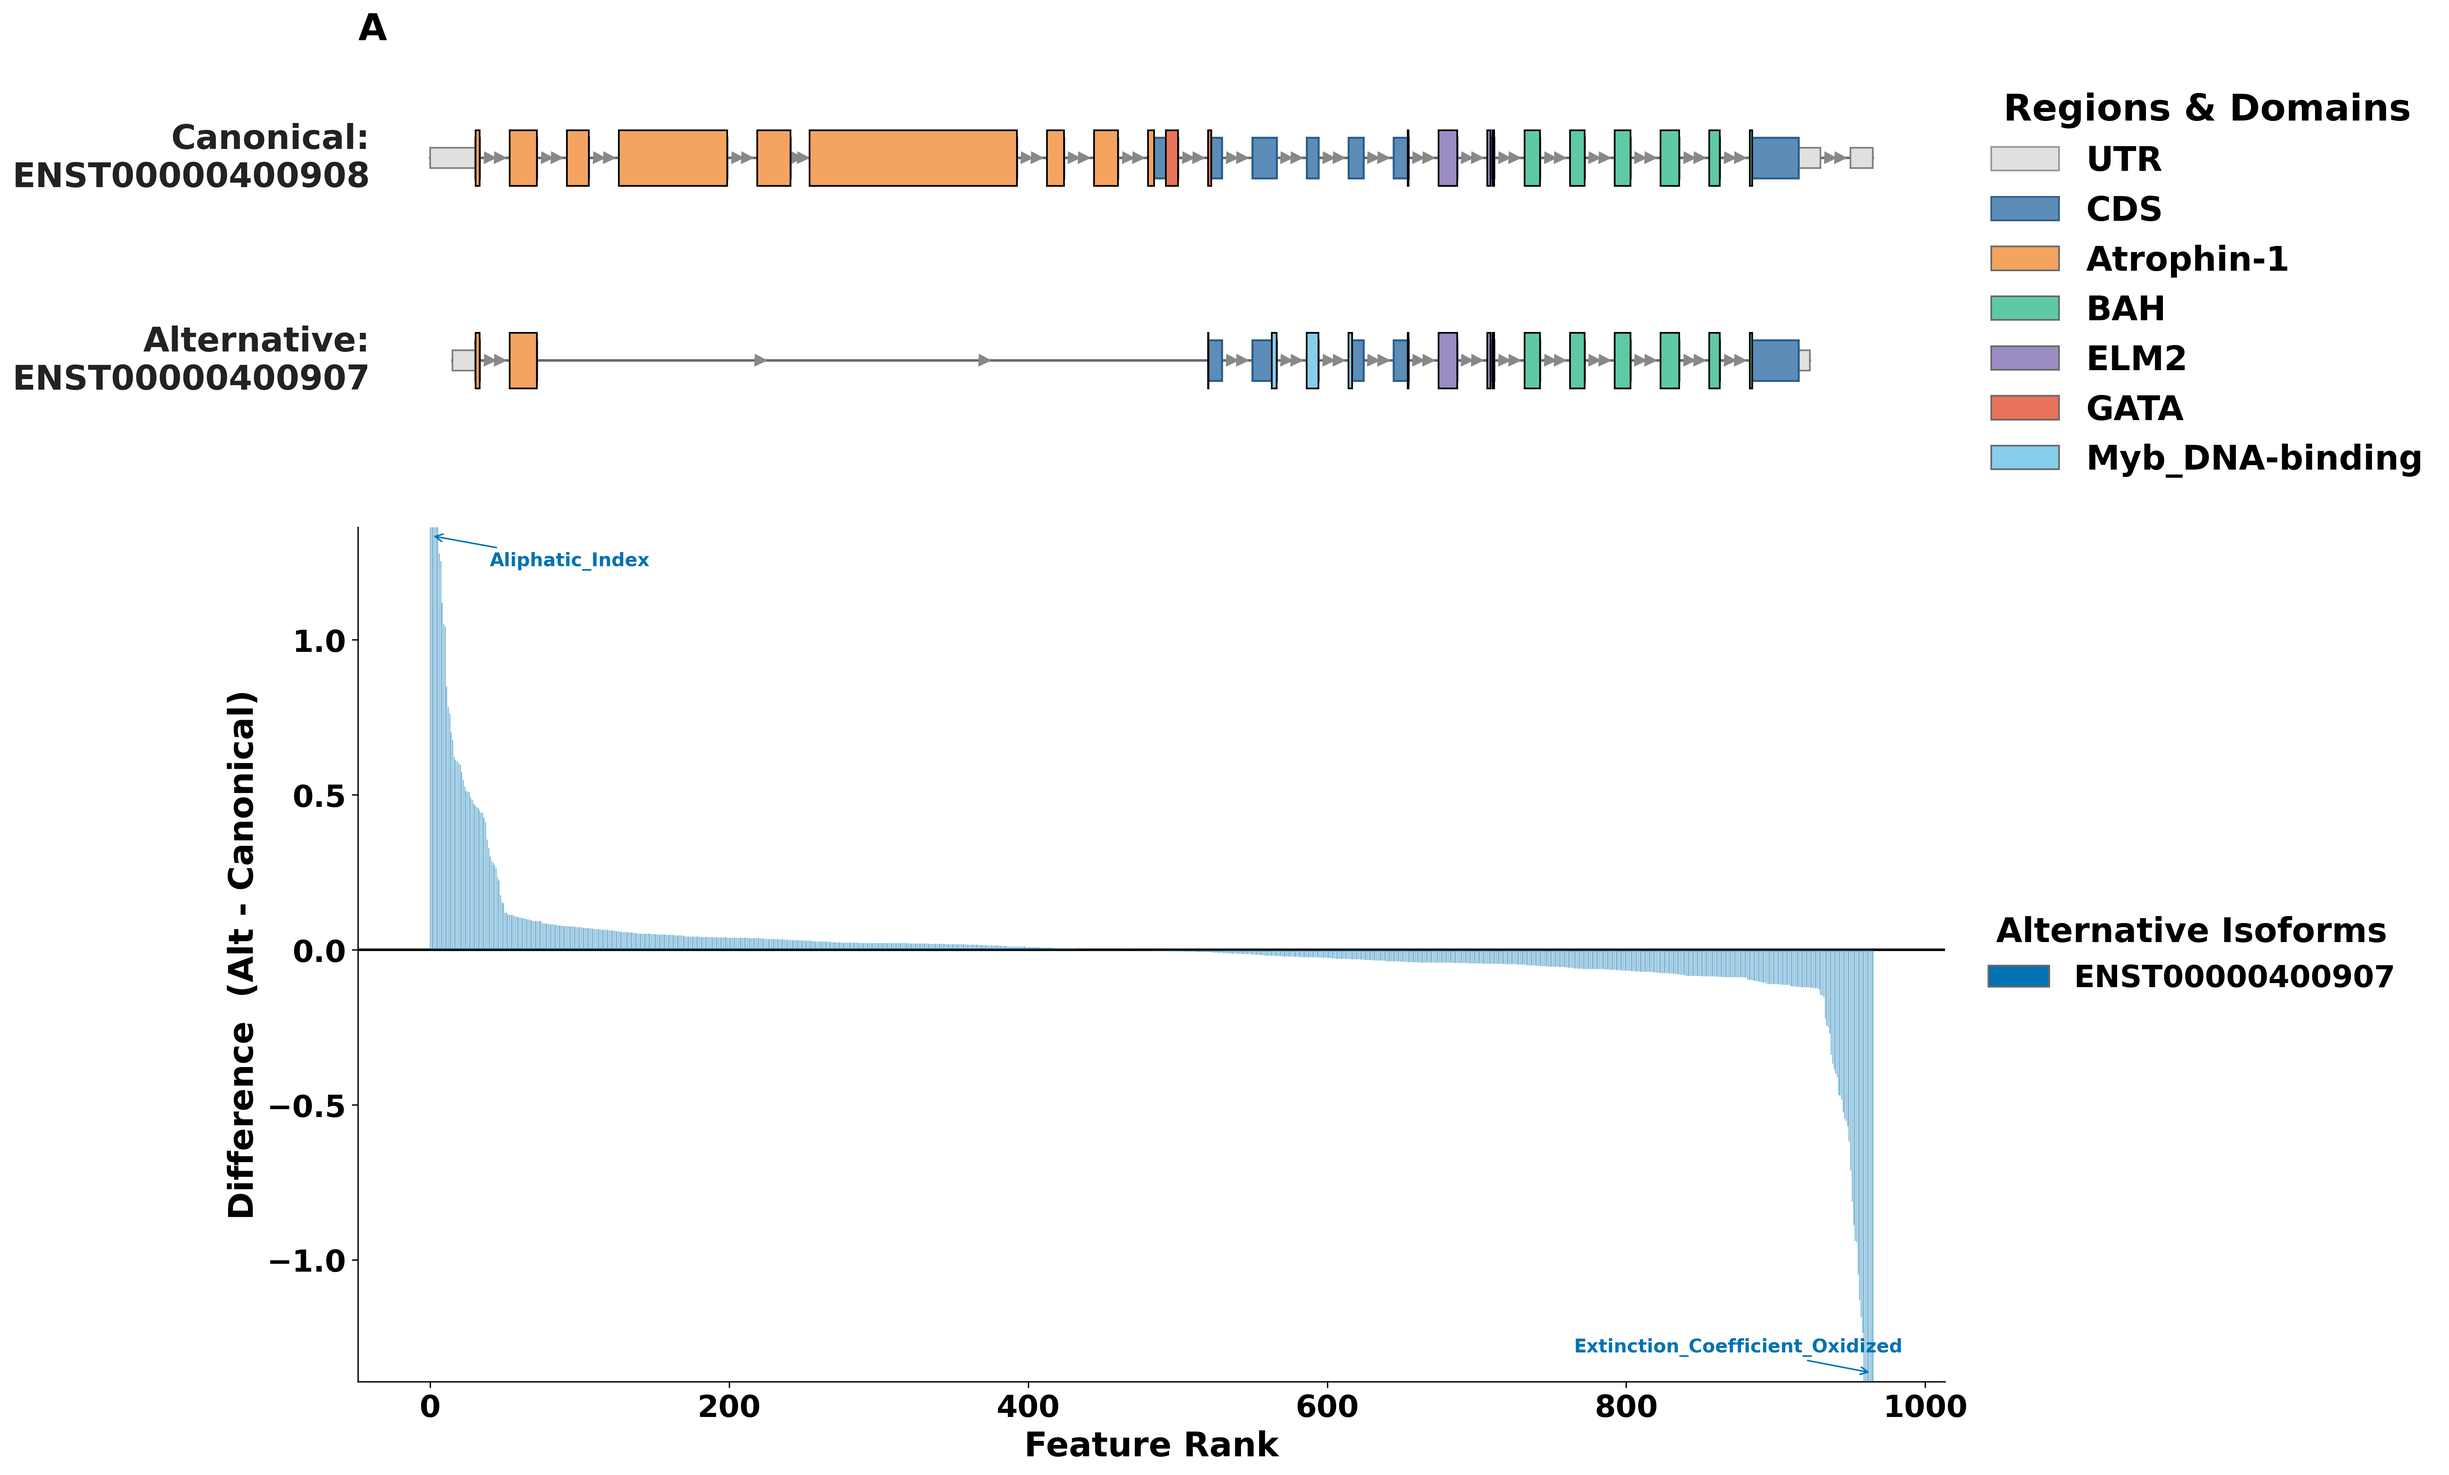
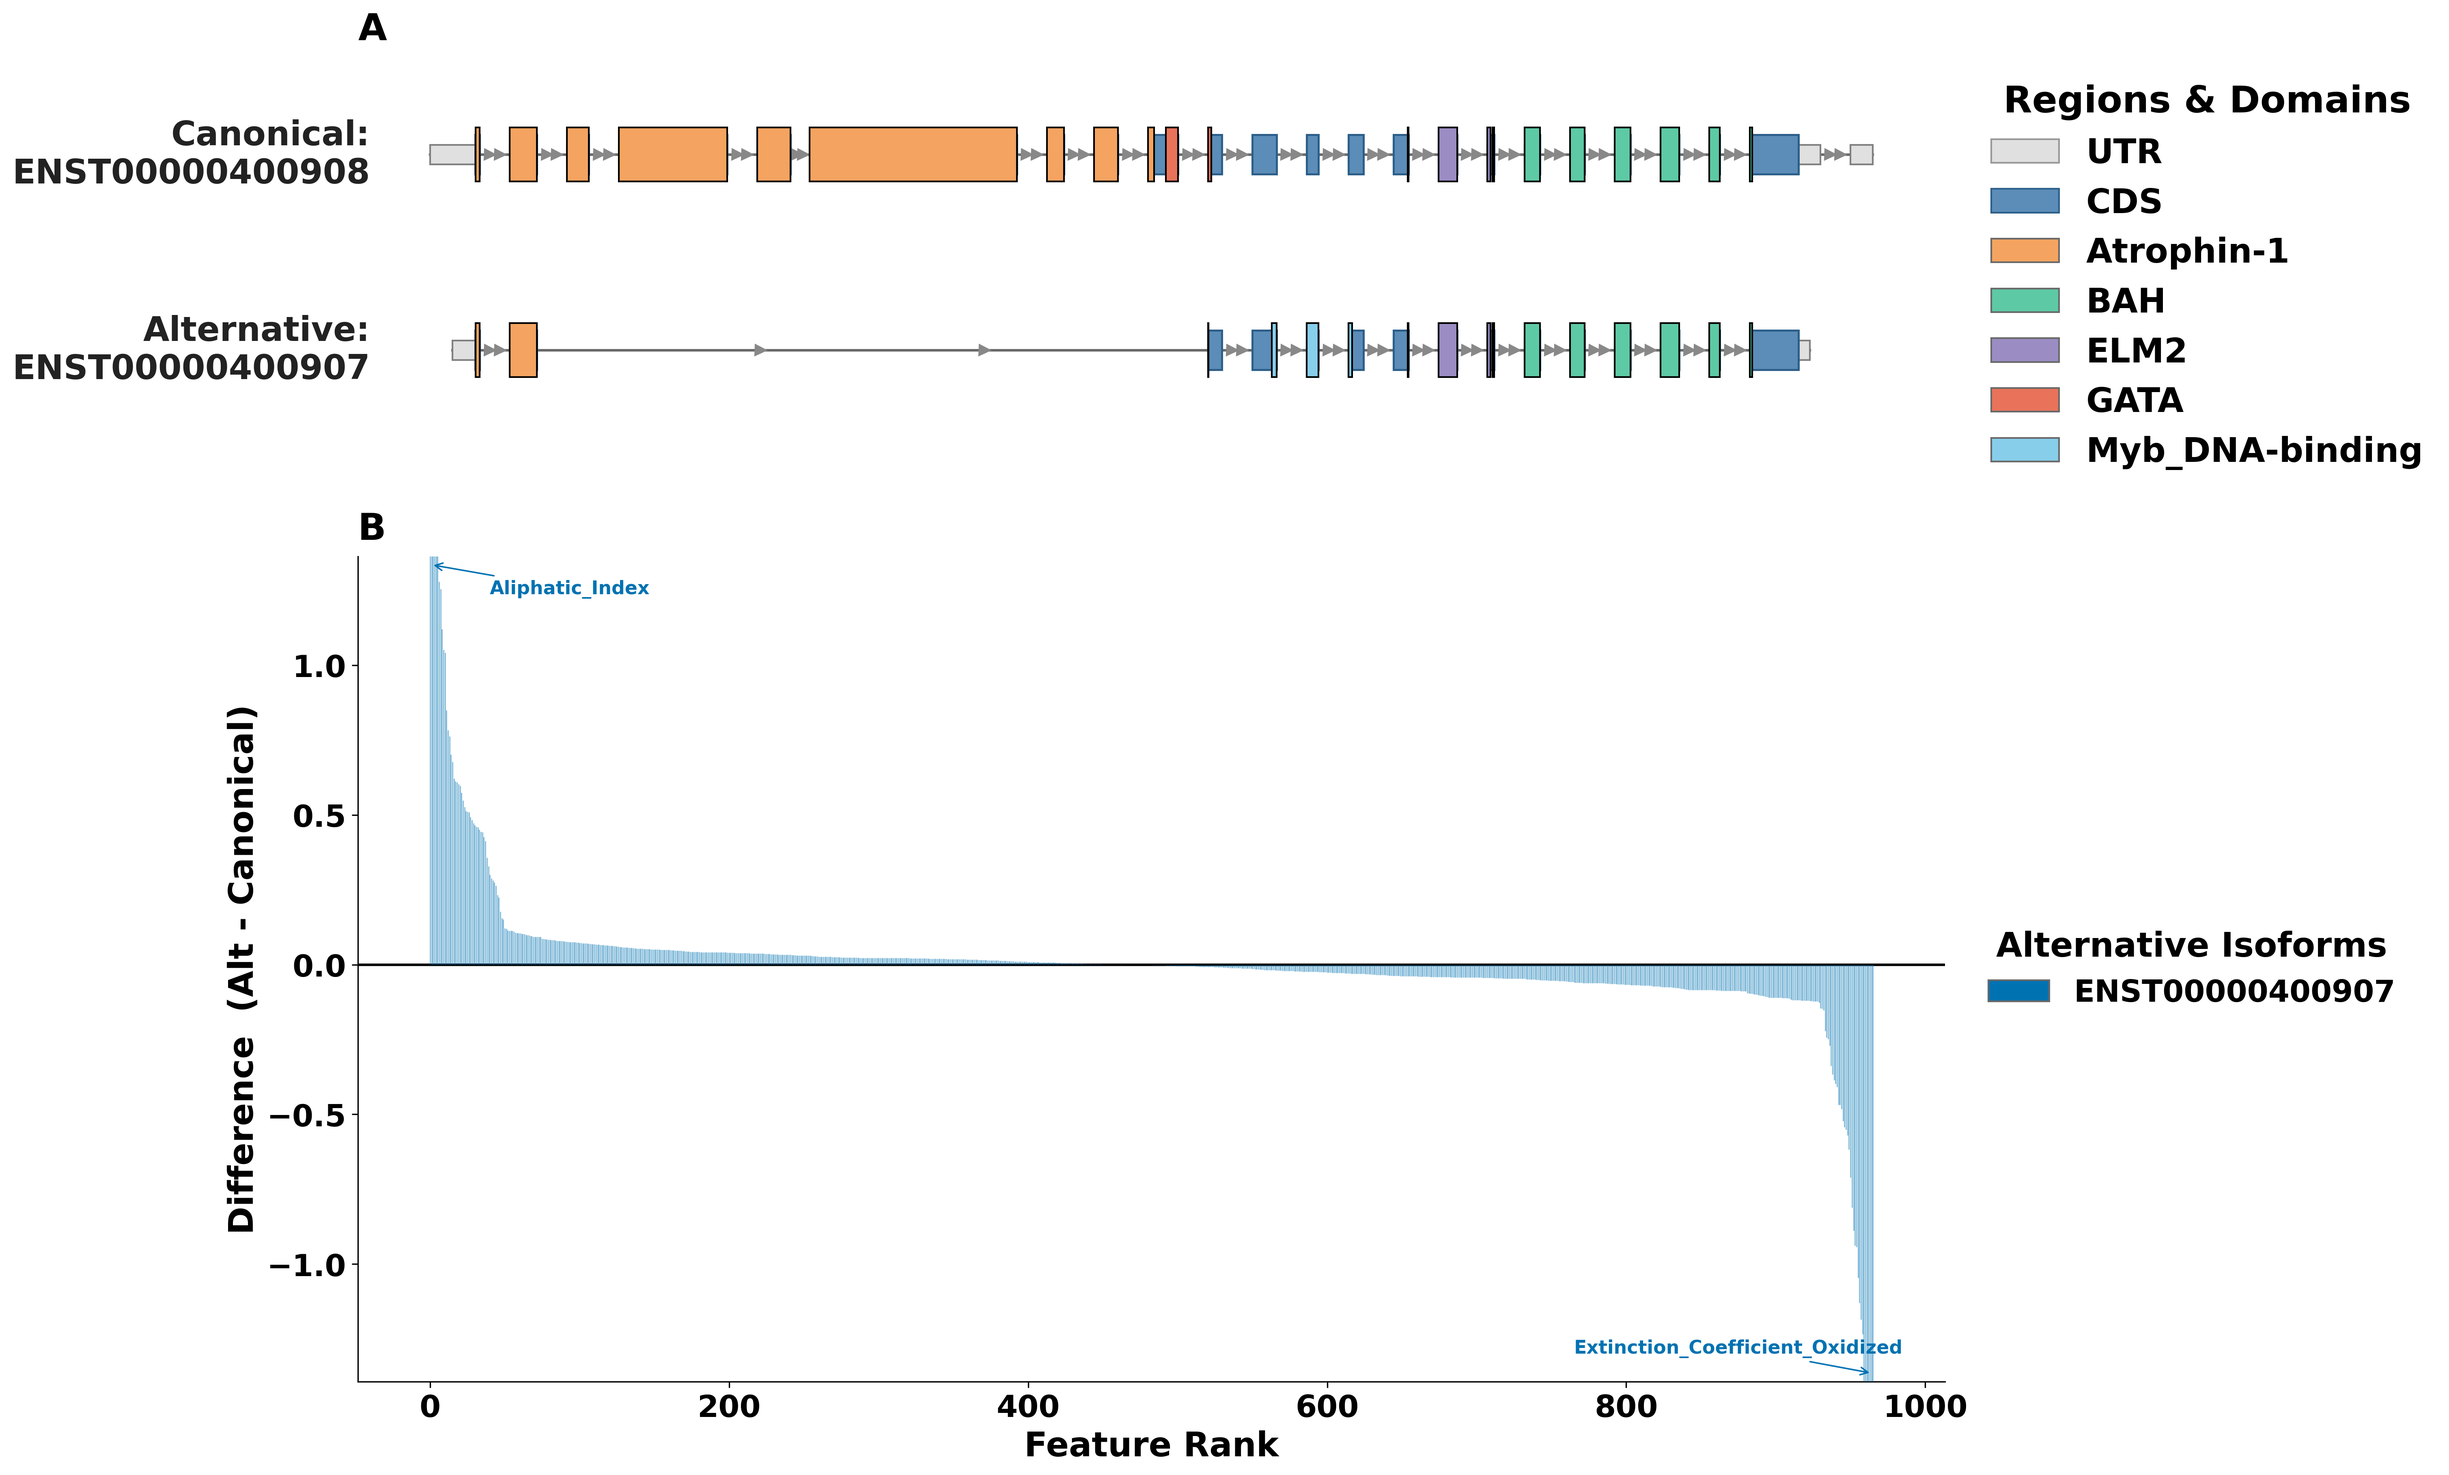
Add panel B label to IsoImpact figure

diff --git a/IsoImpact.py b/IsoImpact.py
@@ -561,6 +561,7 @@ ax_a.legend(handles=legend_elements, loc='center left', bbox_to_anchor=(1.01, 0.
 
 # ==================== [B] Ranked signed feature differences ====================
 ax_new = fig.add_subplot(gs[1, :])
+ax_new.set_title('B', loc='left', fontsize=22, fontweight='bold', pad=10)
 
 if not df_all_features.empty:
     mean_delta = df_all_features[delta_cols].mean(axis=0)

diff --git a/README.md b/README.md
@@ -168,7 +168,7 @@ Second, use the FASTA file provided in this repository, which contains a small s
 data/example_release109/Homo_sapiens.GRCh38.pep.release109.example.fa
 ```
 
-Third, users can download the complete Ensembl release version 109 human protein FASTA file from Ensembl if they want to run the process on the full proteome:
+If users want to run the process on the full proteome, they can also download the complete Ensembl release version 109 human protein FASTA file from Ensembl:
 
 ```text
 https://ftp.ensembl.org/pub/release-109/fasta/homo_sapiens/pep/Homo_sapiens.GRCh38.pep.all.fa.gz
